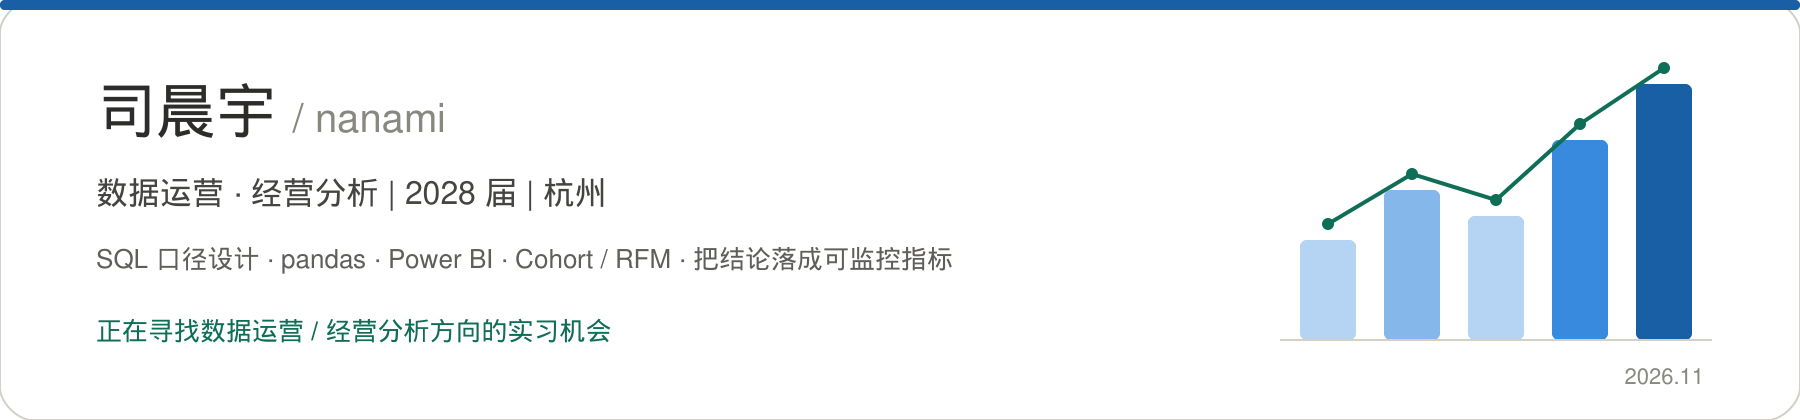
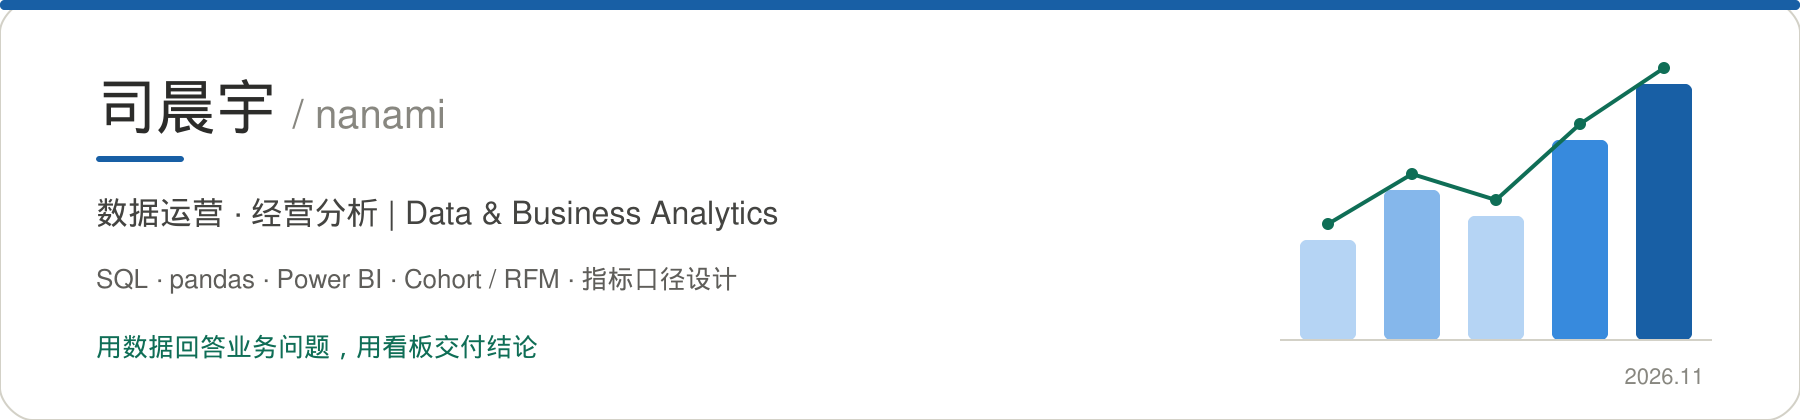
Slim down personal info and redesign profile layout

diff --git a/README.md b/README.md
@@ -1,12 +1,19 @@
 <div align="center">
-  <img src="./assets/banner.png" alt="司晨宇 · 数据运营 / 经营分析 · 2028 届 · 杭州" width="860">
+  <img src="./assets/banner.png" alt="司晨宇 · 数据运营 / 经营分析" width="860">
   <br><br>
-  <a href="mailto:si_chenyv@163.com"><img src="https://img.shields.io/badge/status-open_to_internship-0F6E56?style=flat-square" alt="正在寻找数据运营 / 经营分析方向的实习"></a>
-  <img src="https://img.shields.io/badge/Python-pandas_openpyxl-3776AB?style=flat-square&logo=python&logoColor=white" alt="Python：pandas / openpyxl">
-  <img src="https://img.shields.io/badge/SQL-MySQL_SQLite-4479A1?style=flat-square" alt="SQL：MySQL / SQLite">
-  <img src="https://img.shields.io/badge/Power_BI-Excel-F2C811?style=flat-square" alt="Power BI / Excel">
-  <p><b>司晨宇（nanami）</b> · 数据运营 / 经营分析 · 2028 届 · 杭州<br>
-  <b>正在找数据运营 / 经营分析方向的实习</b> · 可全职实习至 2027.5（每周 5 天）· 随时到岗、随时线下面试</p>
+  <b>司晨宇（nanami）</b> · 数据运营 / 经营分析
+  <br>
+  <i>把业务问题拆成可验证的结论，再落成能交付的看板</i>
+  <br><br>
+  <img src="https://img.shields.io/badge/Python-3776AB?style=for-the-badge&logo=python&logoColor=white" alt="Python">
+  <img src="https://img.shields.io/badge/pandas-150458?style=for-the-badge&logo=pandas&logoColor=white" alt="pandas">
+  <img src="https://img.shields.io/badge/MySQL-4479A1?style=for-the-badge&logo=mysql&logoColor=white" alt="MySQL">
+  <img src="https://img.shields.io/badge/SQLite-003B57?style=for-the-badge&logo=sqlite&logoColor=white" alt="SQLite">
+  <br>
+  <img src="https://img.shields.io/badge/Power_BI-F2C811?style=for-the-badge&logo=powerbi&logoColor=black" alt="Power BI">
+  <img src="https://img.shields.io/badge/Excel-217346?style=for-the-badge&logo=microsoftexcel&logoColor=white" alt="Excel">
+  <img src="https://img.shields.io/badge/FastAPI-009688?style=for-the-badge&logo=fastapi&logoColor=white" alt="FastAPI">
+  <img src="https://img.shields.io/badge/Git-F05032?style=for-the-badge&logo=git&logoColor=white" alt="Git">
 </div>
 
 ---
@@ -15,11 +22,48 @@
 
 > 独立完成 4 个数据分析项目（含 1 个自造取数工具）；擅长 SQL 口径设计与 Cohort / RFM 分析，习惯把结论落成可监控的指标和能交付的看板，而不是停在图表上。
 
-**三个能说明问题的数字**
+<div align="center"><img src="./assets/highlights.png" alt="三个关键结论：13.5 万美元折扣亏损、97% 一次性用户、80.7% 数据保留率" width="860"></div>
 
-- 折扣 ≥20% 的订单只占 GMV 15.8%，却亏掉 **13.5 万美元**；40%+ 折扣区间毛利率 **-77.4%**
-- 9.9 万订单里 **97% 用户只买一次**，次月留存 0.18%–0.72% 且无改善 → 判断为「首购即终点」的一次性交易，而非「漏桶」
-- 20 类脏数据规则化清洗，**25,746 → 20,784 行（保留 80.7%）**，输出月度报表与 3 张趋势图
+### 精选项目
+
+<table>
+  <tr>
+    <td width="50%" valign="top">
+      <b>01 · <a href="https://github.com/nanamisaigao/superstore_bi">零售折扣—利润诊断</a></b><br>
+      <sub>4 年、9,994 行订单：销售额 +20.4%，毛利率为什么反降？</sub><br><br>
+      折扣 ≥20% 的订单只占 GMV <b>15.8%</b>，却亏掉 <b>13.5 万美元</b>；40%+ 折扣区间毛利率 <b>-77.4%</b>；家具品类仅 <b>2.49%</b>。<br>
+      交付：Power BI 交互看板 + Excel 一页纸月报 + 折扣审批建议<br>
+      <sub>CSV → MySQL → Power BI → Excel｜Python · SQL</sub>
+    </td>
+    <td width="50%" valign="top">
+      <b>02 · <a href="https://github.com/nanamisaigao/sql_olist">用户留存诊断与二次触达</a></b><br>
+      <sub>9.9 万订单里 97% 用户只买一次：继续拉新，还是做存量？</sub><br><br>
+      15 个首购批次次月留存仅 <b>0.18%–0.72%</b> 且无改善，复购率 <b>3.0%</b> → 判断为「首购即终点」的一次性交易；GMV 与支付流水对账一致率 <b>99.98%</b>。<br>
+      交付：Cohort 留存矩阵 + 8 类客群 + A/B 触达方案 + 多 Sheet 报表<br>
+      <sub>CTE · 窗口函数 · NTILE｜SQLite · pandas · openpyxl</sub>
+    </td>
+  </tr>
+  <tr>
+    <td width="50%" valign="top">
+      <b>03 · <a href="https://github.com/nanamisaigao/SQL-Agent">SQL-Agent：自然语言取数工具</a></b><br>
+      <sub>做上面两个项目时反复手写取数 SQL，于是自己造了一个。</sub><br><br>
+      <b>200 行手写 Agent 循环</b>，未用任何框架：拼表结构 → 调模型 → pydantic 校验 → 执行 → 结果回灌；FastAPI + SSE 一条事件流同时驱动 CLI 与浏览器前端。<br>
+      SQLite 只读连接、只放行单条 SELECT；25 条用例一次通过 <b>20 条</b>。<br>
+      <sub>Python · FastAPI · pydantic · typer · 原生 ES Module</sub>
+    </td>
+    <td width="50%" valign="top">
+      <b>04 · <a href="https://github.com/nanamisaigao/pandas_bill">pandas 账单清洗工具</a></b><br>
+      <sub>从脏数据到月度报表，一条完整链路。</sub><br><br>
+      20 类脏数据规则化清洗，<b>25,746 → 20,784 行（保留 80.7%）</b>，输出月度分类报表、预算对比与 3 张趋势图。<br>
+      覆盖「生成脏数据 → 体检 → 清洗 → 统计报表」全流程。<br>
+      <sub>Python · pandas · Matplotlib · openpyxl</sub>
+    </td>
+  </tr>
+</table>
+
+每个项目的 README 都写了口径说明、假设与局限 —— 比结论本身更能说明我怎么干活。
+
+其他仓库：[sql_bill](https://github.com/nanamisaigao/sql_bill)（SQLite 账单查询）· [CSV-Billing-Stats](https://github.com/nanamisaigao/CSV-Billing-Stats)（标准库 CSV 分析）· [todo-cli](https://github.com/nanamisaigao/todo-cli)（终端待办）
 
 ### 工具箱
 
@@ -31,45 +75,9 @@
 | **分析方法** | GMV / 客单价 / 复购率 / 留存率口径，Cohort 留存、RFM 分层、漏斗与 A/B 测试设计、折扣—利润拆解 |
 | **工程** | FastAPI + SSE、pydantic 校验、typer CLI、SQLite 只读连接、原生 ES Module 前端 |
 
-### 项目
-
-#### 01 · 零售折扣—利润诊断与经营看板
-
-> 4 年、9,994 行零售订单：销售额 +20.4%，毛利率却从 13.43% 掉到 12.74%，钱去哪了？
-
-- **结论**：折扣 ≥20% 的订单只占 GMV 15.8%，合计亏损 13.5 万美元；40%+ 区间毛利率 -77.4%；家具毛利率仅 2.49%（目标 10%）；Central 7.9% 不到 West 14.9% 的六成
-- **交付**：Power BI 交互看板 + Excel 一页纸月报（6 张 KPI 卡、3 条结论，公式实时计算）+ 折扣审批建议
-- **链路**：CSV → MySQL 8.0 → Power BI → Excel，全部口径集中在一张「汇总」表，改一处全表更新
-- [superstore_bi](https://github.com/nanamisaigao/superstore_bi) · Python / SQL / Power BI / Excel
-
-#### 02 · 电商用户留存诊断与二次触达
-
-> 9.9 万订单、9.3 万客户，97% 的用户只买一次：预算该继续拉新，还是做存量？
-
-- **结论**：15 个首购批次次月留存 0.18%–0.72% 且无改善，复购率 3.0%；GMV 1,541 万 BRL 与支付流水对账一致率 99.98%；「重要发展客户」占 34.7%，是唯一有拉动空间的群体
-- **方法**：原生 SQL 做 GMV 口径核算、Cohort 留存矩阵（分母用各批次首购人数）、RFM 分层；因 97% 用户频次为 1，F 维度改用业务阈值而非 NTILE
-- **交付**：留存矩阵 + 8 类客群 + A/B 测试方案（首购后 30 天二次触达，以 30 天二购率验收）+ 多 Sheet Excel 报表
-- [sql_olist](https://github.com/nanamisaigao/sql_olist) · SQLite / SQL / pandas / openpyxl
-
-#### 03 · SQL-Agent：给自己用的自然语言取数工具
-
-> 做上面两个项目时反复手写取数 SQL，于是边分析边把它造了出来，现已用它完成两个项目的取数与初筛。
-
-- **实现**：200 行手写 Agent 循环（拼表结构 → 调模型 → pydantic 校验工具调用 → 执行 → 结果回灌），**未使用任何 Agent 框架**；FastAPI + SSE 一条事件流同时驱动 CLI（typer，11 条子命令）与浏览器前端（原生 ES Module，无构建步骤）
-- **安全与验证**：SQLite 只读连接、只放行单条 SELECT，模型只读不写；25 条用例一次通过 20 条，失败集中在 JOIN 选表与聚合粒度
-- [SQL-Agent](https://github.com/nanamisaigao/SQL-Agent) · Python
-
-#### 04 · pandas 账单清洗工具
-
-> 从脏数据到月度报表，一条完整链路。
-
-- 20 类脏数据规则化清洗，25,746 → 20,784 行（保留 80.7%），输出月度分类报表、预算对比与 3 张趋势图
-- 覆盖「生成脏数据 → 体检 → 清洗 → 统计报表」全流程
-- [pandas_bill](https://github.com/nanamisaigao/pandas_bill) · Python / pandas
-
-其他仓库：[sql_bill](https://github.com/nanamisaigao/sql_bill)（SQLite 账单查询）· [CSV-Billing-Stats](https://github.com/nanamisaigao/CSV-Billing-Stats)（标准库 CSV 分析）· [todo-cli](https://github.com/nanamisaigao/todo-cli)（终端待办）
-
 ### 看板与工具实拍
+
+<sub>以下截图均来自对应项目仓库，点开可看大图。</sub>
 
 <table>
   <tr>
@@ -82,16 +90,9 @@
   </tr>
 </table>
 
-### 背景
-
-郑州工程技术学院 · 智能建造 · 本科（2028 届）｜主修 Python 程序设计、概率与数理统计、云计算与大数据技术
-校级「C 语言学习能手」；曾组织新生 C 语言培训、电脑义修
-
 ### 联系
 
 **邮箱**：[si_chenyv@163.com](mailto:si_chenyv@163.com)
-
-欢迎直接看项目 README——每个项目都写了口径说明和局限，比结论本身更能说明我怎么干活。
 
 ---
 
